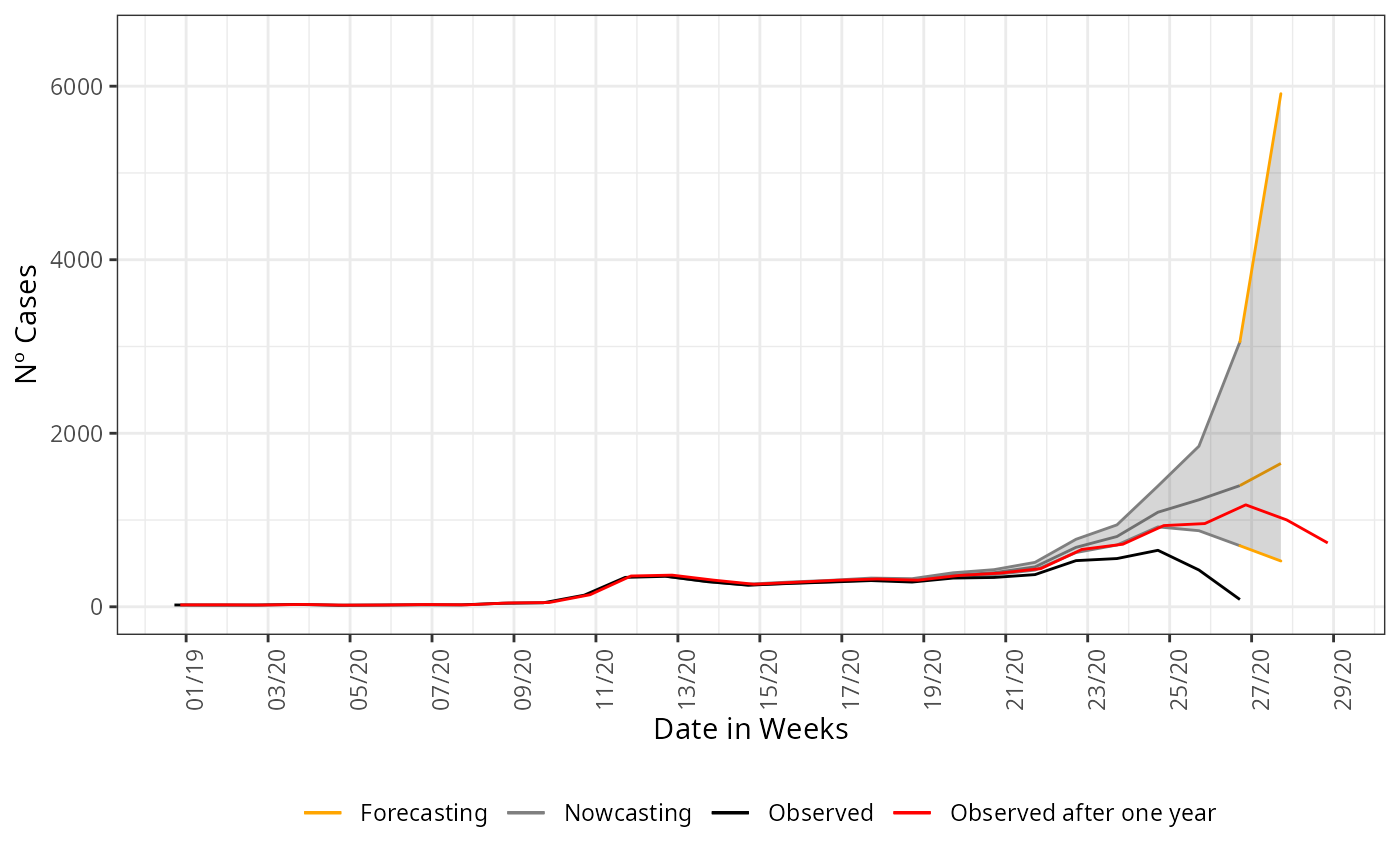
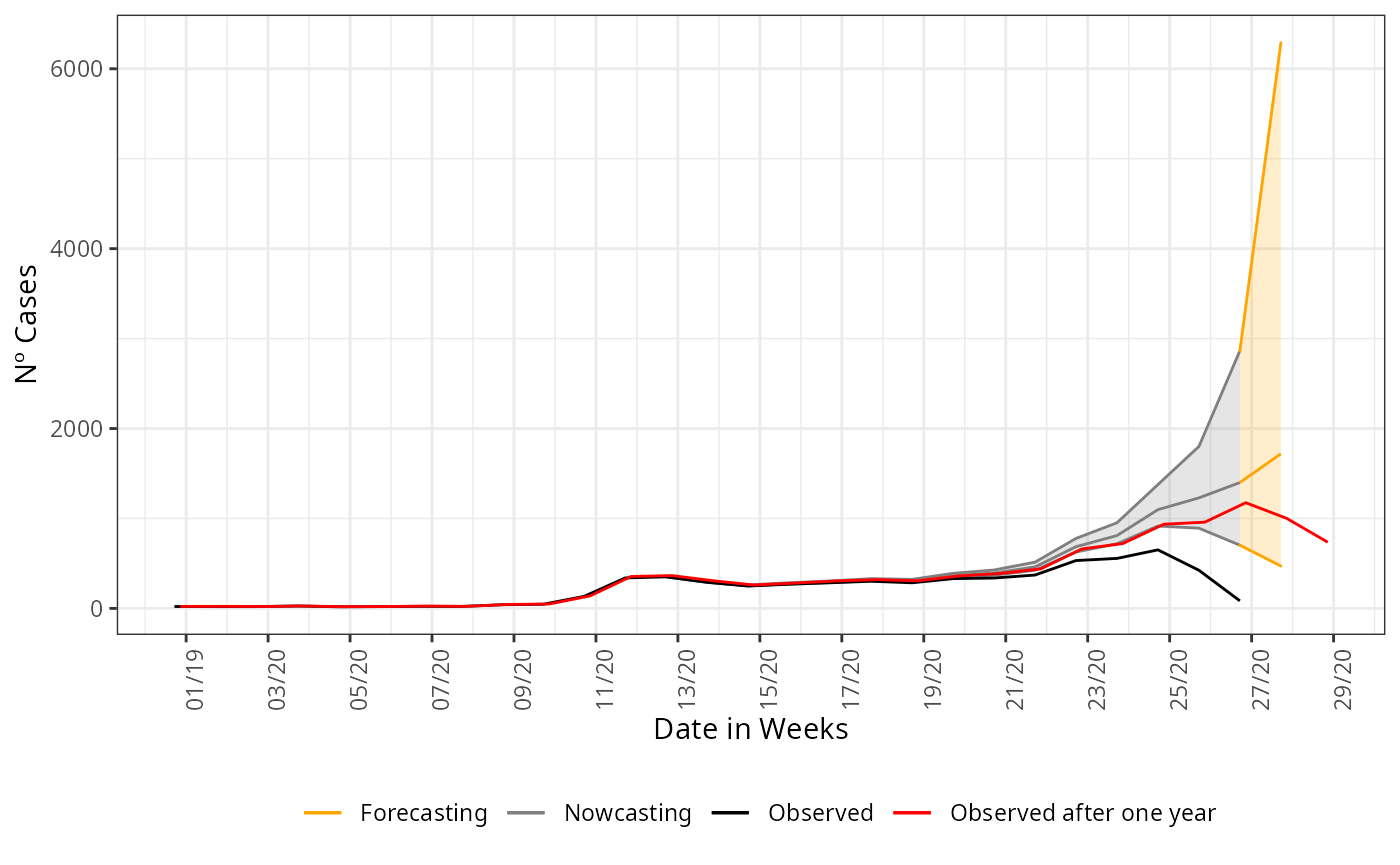
New forecasting article build, trim.data and K parameter conflict resolved

diff --git a/docs/articles/forecasting.html b/docs/articles/forecasting.html
@@ -132,7 +132,8 @@ of first symptoms present at the database.</p>
 
 <span class="va">data_by_week</span><span class="op">&lt;-</span><span class="fu"><a href="../reference/dados.w_no_age.html">dados.w_no_age</a></span><span class="op">(</span>dataset <span class="op">=</span> <span class="va">srag_now</span>, 
                              date_onset <span class="op">=</span> <span class="va">DT_SIN_PRI</span>, 
-                             date_report <span class="op">=</span> <span class="va">DT_DIGITA</span><span class="op">)</span> |&gt; 
+                             date_report <span class="op">=</span> <span class="va">DT_DIGITA</span>, 
+                             K <span class="op">=</span> <span class="fl">0</span><span class="op">)</span> |&gt; 
   <span class="fu"><a href="https://dplyr.tidyverse.org/reference/group_by.html" class="external-link">group_by</a></span><span class="op">(</span><span class="va">date_onset</span><span class="op">)</span> |&gt; 
   <span class="fu"><a href="https://dplyr.tidyverse.org/reference/count.html" class="external-link">tally</a></span><span class="op">(</span><span class="op">)</span>
 
@@ -193,13 +194,13 @@ observed one year later, to validate the estimate done.</p>
 <span class="va">nowcasting_estimate</span> |&gt; 
   <span class="fu"><a href="https://ggplot2.tidyverse.org/reference/ggplot.html" class="external-link">ggplot</a></span><span class="op">(</span><span class="fu"><a href="https://ggplot2.tidyverse.org/reference/aes.html" class="external-link">aes</a></span><span class="op">(</span>x <span class="op">=</span> <span class="va">dt_event</span>, y <span class="op">=</span> <span class="va">Median</span>, col <span class="op">=</span> <span class="st">"Nowcasting"</span><span class="op">)</span><span class="op">)</span><span class="op">+</span>
   <span class="fu"><a href="https://ggplot2.tidyverse.org/reference/geom_path.html" class="external-link">geom_line</a></span><span class="op">(</span><span class="op">)</span><span class="op">+</span>
-  <span class="fu"><a href="https://ggplot2.tidyverse.org/reference/geom_ribbon.html" class="external-link">geom_ribbon</a></span><span class="op">(</span><span class="fu"><a href="https://ggplot2.tidyverse.org/reference/aes.html" class="external-link">aes</a></span><span class="op">(</span>ymin <span class="op">=</span> <span class="va">LI</span>, ymax <span class="op">=</span> <span class="va">LS</span>, col <span class="op">=</span> <span class="cn">NA</span><span class="op">)</span>, 
+  <span class="fu"><a href="https://ggplot2.tidyverse.org/reference/geom_ribbon.html" class="external-link">geom_ribbon</a></span><span class="op">(</span><span class="fu"><a href="https://ggplot2.tidyverse.org/reference/aes.html" class="external-link">aes</a></span><span class="op">(</span>ymin <span class="op">=</span> <span class="va">LI</span>, ymax <span class="op">=</span> <span class="va">LS</span>, col <span class="op">=</span> <span class="st">"Nowcasting"</span>, fill <span class="op">=</span> <span class="st">"Nowcasting"</span><span class="op">)</span>, 
               alpha <span class="op">=</span> <span class="fl">0.2</span>, 
               show.legend <span class="op">=</span> <span class="cn">F</span><span class="op">)</span><span class="op">+</span>
   <span class="fu"><a href="https://ggplot2.tidyverse.org/reference/geom_path.html" class="external-link">geom_line</a></span><span class="op">(</span>data <span class="op">=</span> <span class="va">forecasting_estimate</span>, 
             <span class="fu"><a href="https://ggplot2.tidyverse.org/reference/aes.html" class="external-link">aes</a></span><span class="op">(</span>x <span class="op">=</span> <span class="va">dt_event</span>, y <span class="op">=</span> <span class="va">Median</span>, col <span class="op">=</span> <span class="st">"Forecasting"</span><span class="op">)</span><span class="op">)</span><span class="op">+</span>
   <span class="fu"><a href="https://ggplot2.tidyverse.org/reference/geom_ribbon.html" class="external-link">geom_ribbon</a></span><span class="op">(</span>data <span class="op">=</span> <span class="va">forecasting_estimate</span>, 
-              <span class="fu"><a href="https://ggplot2.tidyverse.org/reference/aes.html" class="external-link">aes</a></span><span class="op">(</span>ymin <span class="op">=</span> <span class="va">LI</span>, ymax <span class="op">=</span> <span class="va">LS</span>, col <span class="op">=</span> <span class="st">"Forecasting"</span><span class="op">)</span>, 
+              <span class="fu"><a href="https://ggplot2.tidyverse.org/reference/aes.html" class="external-link">aes</a></span><span class="op">(</span>ymin <span class="op">=</span> <span class="va">LI</span>, ymax <span class="op">=</span> <span class="va">LS</span>, col <span class="op">=</span> <span class="st">"Forecasting"</span>, fill <span class="op">=</span> <span class="st">"Forecasting"</span><span class="op">)</span>, 
               alpha <span class="op">=</span> <span class="fl">0.2</span>,
               show.legend <span class="op">=</span> <span class="cn">F</span><span class="op">)</span><span class="op">+</span>
   <span class="fu"><a href="https://ggplot2.tidyverse.org/reference/geom_path.html" class="external-link">geom_line</a></span><span class="op">(</span>data <span class="op">=</span> <span class="va">data_by_week</span>, 
@@ -212,12 +213,13 @@ observed one year later, to validate the estimate done.</p>
         axis.text.x <span class="op">=</span> <span class="fu"><a href="https://ggplot2.tidyverse.org/reference/element.html" class="external-link">element_text</a></span><span class="op">(</span>angle <span class="op">=</span> <span class="fl">90</span><span class="op">)</span><span class="op">)</span> <span class="op">+</span>
   <span class="fu"><a href="https://ggplot2.tidyverse.org/reference/scale_manual.html" class="external-link">scale_color_manual</a></span><span class="op">(</span>values <span class="op">=</span> <span class="fu"><a href="https://rdrr.io/r/base/c.html" class="external-link">c</a></span><span class="op">(</span><span class="st">'orange'</span>,<span class="st">'grey50'</span>, <span class="st">'black'</span>, <span class="st">'red'</span><span class="op">)</span>, 
                      name <span class="op">=</span> <span class="st">''</span><span class="op">)</span><span class="op">+</span>
+  <span class="fu"><a href="https://ggplot2.tidyverse.org/reference/scale_manual.html" class="external-link">scale_fill_manual</a></span><span class="op">(</span>values <span class="op">=</span> <span class="fu"><a href="https://rdrr.io/r/base/c.html" class="external-link">c</a></span><span class="op">(</span><span class="st">'orange'</span>,<span class="st">'grey50'</span><span class="op">)</span>, 
+                     name <span class="op">=</span> <span class="st">''</span><span class="op">)</span><span class="op">+</span>
   <span class="fu"><a href="https://ggplot2.tidyverse.org/reference/scale_date.html" class="external-link">scale_x_date</a></span><span class="op">(</span>date_breaks <span class="op">=</span> <span class="st">'2 weeks'</span>, 
                date_labels <span class="op">=</span> <span class="st">'%V/%y'</span>, 
                name <span class="op">=</span> <span class="st">'Date in Weeks'</span><span class="op">)</span><span class="op">+</span>
   <span class="fu"><a href="https://ggplot2.tidyverse.org/reference/labs.html" class="external-link">labs</a></span><span class="op">(</span>x <span class="op">=</span> <span class="st">''</span>, 
-       y <span class="op">=</span> <span class="st">'Nº Cases'</span><span class="op">)</span><span class="op">+</span>
-  <span class="fu"><a href="https://ggplot2.tidyverse.org/reference/lims.html" class="external-link">ylim</a></span><span class="op">(</span><span class="fu"><a href="https://rdrr.io/r/base/c.html" class="external-link">c</a></span><span class="op">(</span><span class="fl">0</span>, <span class="fl">6500</span><span class="op">)</span><span class="op">)</span></code></pre></div>
+       y <span class="op">=</span> <span class="st">'Nº Cases'</span><span class="op">)</span></code></pre></div>
 <p><img src="forecasting_files/figure-html/after_one_year-1.png" width="700"></p>
 </div>
 <div class="section level2">
@@ -239,18 +241,18 @@ confidence interval.</p>
                                      date_onset <span class="op">=</span> <span class="va">DT_SIN_PRI</span>, 
                                      date_report <span class="op">=</span> <span class="va">DT_DIGITA</span>, 
                                      data.by.week <span class="op">=</span> <span class="cn">T</span>, 
-                                     K <span class="op">=</span> <span class="fl">1</span>, 
+                                     K <span class="op">=</span> <span class="fl">1</span>,
                                      age_col <span class="op">=</span> <span class="va">Idade</span><span class="op">)</span>
 <span class="fu"><a href="https://rdrr.io/r/utils/head.html" class="external-link">head</a></span><span class="op">(</span><span class="va">nowcasting_bh_age</span><span class="op">$</span><span class="va">data</span><span class="op">)</span>
 <span class="co">#&gt; <span style="color: #949494;"># A tibble: 6 × 5</span></span>
-<span class="co">#&gt;   date_report date_onset Idade Delay fx_etaria</span>
-<span class="co">#&gt;   <span style="color: #949494; font-style: italic;">&lt;date&gt;</span>      <span style="color: #949494; font-style: italic;">&lt;date&gt;</span>     <span style="color: #949494; font-style: italic;">&lt;dbl&gt;</span> <span style="color: #949494; font-style: italic;">&lt;dbl&gt;</span> <span style="color: #949494; font-style: italic;">&lt;fct&gt;</span>    </span>
-<span class="co">#&gt; <span style="color: #BCBCBC;">1</span> 2020-02-29  2020-02-08    59     3 7        </span>
-<span class="co">#&gt; <span style="color: #BCBCBC;">2</span> 2020-02-01  2020-01-18    79     2 9        </span>
-<span class="co">#&gt; <span style="color: #BCBCBC;">3</span> 2020-04-11  2020-03-28    72     2 9        </span>
-<span class="co">#&gt; <span style="color: #BCBCBC;">4</span> 2020-03-28  2020-03-21    82     1 10       </span>
-<span class="co">#&gt; <span style="color: #BCBCBC;">5</span> 2020-04-11  2020-03-14    50     4 7        </span>
-<span class="co">#&gt; <span style="color: #BCBCBC;">6</span> 2020-04-18  2020-04-04    74     2 9</span></code></pre></div>
+<span class="co">#&gt;   date_report date_onset age_col Delay fx_etaria</span>
+<span class="co">#&gt;   <span style="color: #949494; font-style: italic;">&lt;date&gt;</span>      <span style="color: #949494; font-style: italic;">&lt;date&gt;</span>       <span style="color: #949494; font-style: italic;">&lt;dbl&gt;</span> <span style="color: #949494; font-style: italic;">&lt;dbl&gt;</span> <span style="color: #949494; font-style: italic;">&lt;fct&gt;</span>    </span>
+<span class="co">#&gt; <span style="color: #BCBCBC;">1</span> 2020-02-29  2020-02-08      59     3 7        </span>
+<span class="co">#&gt; <span style="color: #BCBCBC;">2</span> 2020-02-01  2020-01-18      79     2 9        </span>
+<span class="co">#&gt; <span style="color: #BCBCBC;">3</span> 2020-04-11  2020-03-28      72     2 9        </span>
+<span class="co">#&gt; <span style="color: #BCBCBC;">4</span> 2020-03-28  2020-03-21      82     1 10       </span>
+<span class="co">#&gt; <span style="color: #BCBCBC;">5</span> 2020-04-11  2020-03-14      50     4 7        </span>
+<span class="co">#&gt; <span style="color: #BCBCBC;">6</span> 2020-04-18  2020-04-04      74     2 9</span></code></pre></div>
 <p>And we plot the nowcasting estimate and forecasting estimate
 again:</p>
 <div class="sourceCode" id="cb5"><pre class="downlit sourceCode r">
@@ -265,13 +267,13 @@ again:</p>
 <span class="va">nowcasting_estimate</span> |&gt; 
   <span class="fu"><a href="https://ggplot2.tidyverse.org/reference/ggplot.html" class="external-link">ggplot</a></span><span class="op">(</span><span class="fu"><a href="https://ggplot2.tidyverse.org/reference/aes.html" class="external-link">aes</a></span><span class="op">(</span>x <span class="op">=</span> <span class="va">dt_event</span>, y <span class="op">=</span> <span class="va">Median</span>, col <span class="op">=</span> <span class="st">"Nowcasting"</span><span class="op">)</span><span class="op">)</span><span class="op">+</span>
   <span class="fu"><a href="https://ggplot2.tidyverse.org/reference/geom_path.html" class="external-link">geom_line</a></span><span class="op">(</span><span class="op">)</span><span class="op">+</span>
-  <span class="fu"><a href="https://ggplot2.tidyverse.org/reference/geom_ribbon.html" class="external-link">geom_ribbon</a></span><span class="op">(</span><span class="fu"><a href="https://ggplot2.tidyverse.org/reference/aes.html" class="external-link">aes</a></span><span class="op">(</span>ymin <span class="op">=</span> <span class="va">LI</span>, ymax <span class="op">=</span> <span class="va">LS</span>, col <span class="op">=</span> <span class="cn">NA</span><span class="op">)</span>, 
+  <span class="fu"><a href="https://ggplot2.tidyverse.org/reference/geom_ribbon.html" class="external-link">geom_ribbon</a></span><span class="op">(</span><span class="fu"><a href="https://ggplot2.tidyverse.org/reference/aes.html" class="external-link">aes</a></span><span class="op">(</span>ymin <span class="op">=</span> <span class="va">LI</span>, ymax <span class="op">=</span> <span class="va">LS</span>, col <span class="op">=</span> <span class="st">"Nowcasting"</span>, fill <span class="op">=</span> <span class="st">"Nowcasting"</span><span class="op">)</span>, 
               alpha <span class="op">=</span> <span class="fl">0.2</span>, 
               show.legend <span class="op">=</span> <span class="cn">F</span><span class="op">)</span><span class="op">+</span>
   <span class="fu"><a href="https://ggplot2.tidyverse.org/reference/geom_path.html" class="external-link">geom_line</a></span><span class="op">(</span>data <span class="op">=</span> <span class="va">forecasting_estimate</span>, 
             <span class="fu"><a href="https://ggplot2.tidyverse.org/reference/aes.html" class="external-link">aes</a></span><span class="op">(</span>x <span class="op">=</span> <span class="va">dt_event</span>, y <span class="op">=</span> <span class="va">Median</span>, col <span class="op">=</span> <span class="st">"Forecasting"</span><span class="op">)</span><span class="op">)</span><span class="op">+</span>
   <span class="fu"><a href="https://ggplot2.tidyverse.org/reference/geom_ribbon.html" class="external-link">geom_ribbon</a></span><span class="op">(</span>data <span class="op">=</span> <span class="va">forecasting_estimate</span>, 
-              <span class="fu"><a href="https://ggplot2.tidyverse.org/reference/aes.html" class="external-link">aes</a></span><span class="op">(</span>ymin <span class="op">=</span> <span class="va">LI</span>, ymax <span class="op">=</span> <span class="va">LS</span>, col <span class="op">=</span> <span class="st">"Forecasting"</span><span class="op">)</span>, 
+              <span class="fu"><a href="https://ggplot2.tidyverse.org/reference/aes.html" class="external-link">aes</a></span><span class="op">(</span>ymin <span class="op">=</span> <span class="va">LI</span>, ymax <span class="op">=</span> <span class="va">LS</span>, col <span class="op">=</span> <span class="st">"Forecasting"</span>, fill <span class="op">=</span> <span class="st">"Forecasting"</span><span class="op">)</span>, 
               alpha <span class="op">=</span> <span class="fl">0.2</span>,
               show.legend <span class="op">=</span> <span class="cn">F</span><span class="op">)</span><span class="op">+</span>
   <span class="fu"><a href="https://ggplot2.tidyverse.org/reference/geom_path.html" class="external-link">geom_line</a></span><span class="op">(</span>data <span class="op">=</span> <span class="va">data_by_week</span>, 
@@ -284,12 +286,13 @@ again:</p>
         axis.text.x <span class="op">=</span> <span class="fu"><a href="https://ggplot2.tidyverse.org/reference/element.html" class="external-link">element_text</a></span><span class="op">(</span>angle <span class="op">=</span> <span class="fl">90</span><span class="op">)</span><span class="op">)</span> <span class="op">+</span>
   <span class="fu"><a href="https://ggplot2.tidyverse.org/reference/scale_manual.html" class="external-link">scale_color_manual</a></span><span class="op">(</span>values <span class="op">=</span> <span class="fu"><a href="https://rdrr.io/r/base/c.html" class="external-link">c</a></span><span class="op">(</span><span class="st">'orange'</span>,<span class="st">'grey50'</span>, <span class="st">'black'</span>, <span class="st">'red'</span><span class="op">)</span>, 
                      name <span class="op">=</span> <span class="st">''</span><span class="op">)</span><span class="op">+</span>
+  <span class="fu"><a href="https://ggplot2.tidyverse.org/reference/scale_manual.html" class="external-link">scale_fill_manual</a></span><span class="op">(</span>values <span class="op">=</span> <span class="fu"><a href="https://rdrr.io/r/base/c.html" class="external-link">c</a></span><span class="op">(</span><span class="st">'orange'</span>,<span class="st">'grey50'</span><span class="op">)</span>, 
+                     name <span class="op">=</span> <span class="st">''</span><span class="op">)</span><span class="op">+</span>
   <span class="fu"><a href="https://ggplot2.tidyverse.org/reference/scale_date.html" class="external-link">scale_x_date</a></span><span class="op">(</span>date_breaks <span class="op">=</span> <span class="st">'2 weeks'</span>, 
                date_labels <span class="op">=</span> <span class="st">'%V/%y'</span>, 
                name <span class="op">=</span> <span class="st">'Date in Weeks'</span><span class="op">)</span><span class="op">+</span>
   <span class="fu"><a href="https://ggplot2.tidyverse.org/reference/labs.html" class="external-link">labs</a></span><span class="op">(</span>x <span class="op">=</span> <span class="st">''</span>, 
-       y <span class="op">=</span> <span class="st">'Nº Cases'</span><span class="op">)</span><span class="op">+</span>
-  <span class="fu"><a href="https://ggplot2.tidyverse.org/reference/lims.html" class="external-link">ylim</a></span><span class="op">(</span><span class="fu"><a href="https://rdrr.io/r/base/c.html" class="external-link">c</a></span><span class="op">(</span><span class="fl">0</span>, <span class="fl">6500</span><span class="op">)</span><span class="op">)</span></code></pre></div>
+       y <span class="op">=</span> <span class="st">'Nº Cases'</span><span class="op">)</span></code></pre></div>
 <p><img src="forecasting_files/figure-html/unnamed-chunk-3-1.png" width="700"></p>
 </div>
   </main><aside class="col-md-3"><nav id="toc"><h2>On this page</h2>

diff --git a/docs/articles/nowcaster.html b/docs/articles/nowcaster.html
@@ -126,12 +126,12 @@ name for the date of report of the cases. Here this columns are
 <span class="co">#&gt; <span style="color: #949494;"># A tibble: 6 × 7</span></span>
 <span class="co">#&gt;    Time dt_event   Median    LI    LS   LIb   LSb</span>
 <span class="co">#&gt;   <span style="color: #949494; font-style: italic;">&lt;int&gt;</span> <span style="color: #949494; font-style: italic;">&lt;date&gt;</span>      <span style="color: #949494; font-style: italic;">&lt;dbl&gt;</span> <span style="color: #949494; font-style: italic;">&lt;dbl&gt;</span> <span style="color: #949494; font-style: italic;">&lt;dbl&gt;</span> <span style="color: #949494; font-style: italic;">&lt;dbl&gt;</span> <span style="color: #949494; font-style: italic;">&lt;dbl&gt;</span></span>
-<span class="co">#&gt; <span style="color: #BCBCBC;">1</span>    17 2021-12-13    625   621  632    623  627 </span>
-<span class="co">#&gt; <span style="color: #BCBCBC;">2</span>    18 2021-12-20    695   687  707    692  698 </span>
-<span class="co">#&gt; <span style="color: #BCBCBC;">3</span>    19 2021-12-27    812   800  829.   808  817 </span>
-<span class="co">#&gt; <span style="color: #BCBCBC;">4</span>    20 2022-01-03    887   872  907    881  893 </span>
-<span class="co">#&gt; <span style="color: #BCBCBC;">5</span>    21 2022-01-10    818   798  845    811  825.</span>
-<span class="co">#&gt; <span style="color: #BCBCBC;">6</span>    22 2022-01-17    631   610  660    623  641</span></code></pre></div>
+<span class="co">#&gt; <span style="color: #BCBCBC;">1</span>    17 2021-12-13    625  621   632    623   627</span>
+<span class="co">#&gt; <span style="color: #BCBCBC;">2</span>    18 2021-12-20    695  688   709    692   699</span>
+<span class="co">#&gt; <span style="color: #BCBCBC;">3</span>    19 2021-12-27    812  800   830    807   817</span>
+<span class="co">#&gt; <span style="color: #BCBCBC;">4</span>    20 2022-01-03    887  872.  908.   881   893</span>
+<span class="co">#&gt; <span style="color: #BCBCBC;">5</span>    21 2022-01-10    818  799   847    810   827</span>
+<span class="co">#&gt; <span style="color: #BCBCBC;">6</span>    22 2022-01-17    630  611.  659    622   639</span></code></pre></div>
 <p>This calling will return for the first element the nowcasting
 estimate and its Confidence Interval (CI) for two different Credible
 interval, <code>LIb</code> and <code>LSb</code> are the max and min CI,
